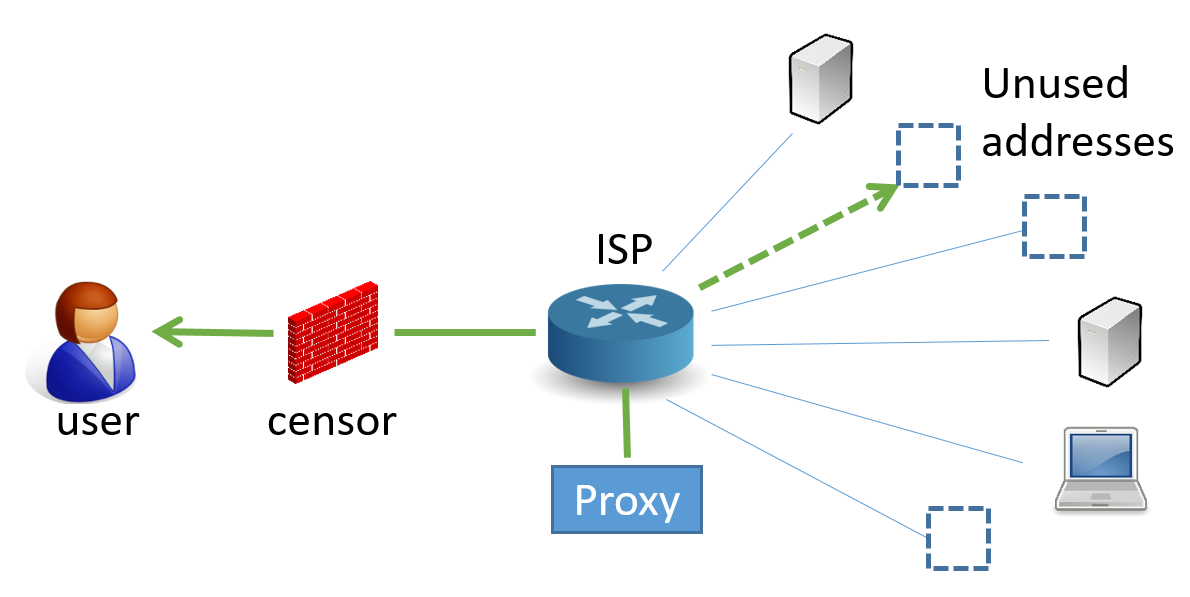
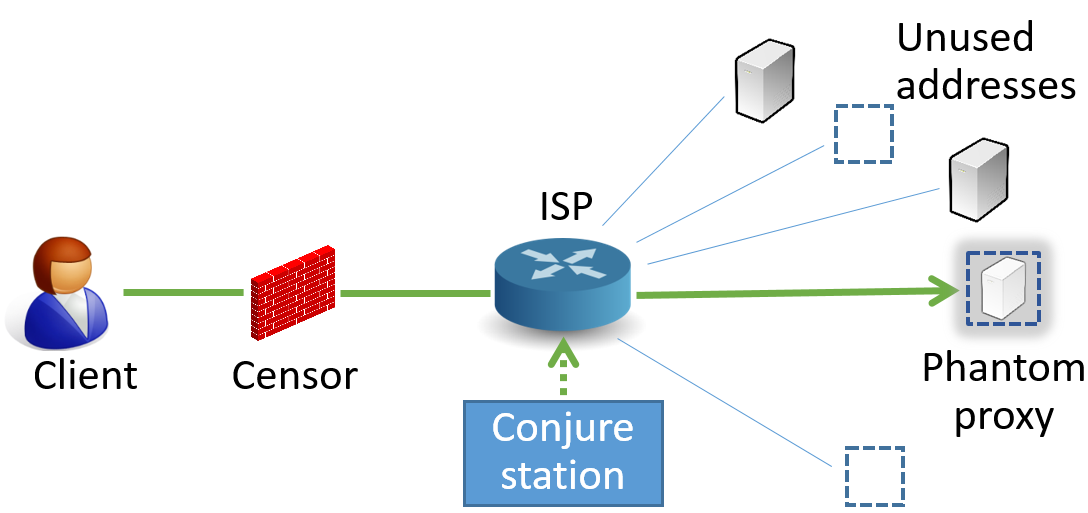
Figure

diff --git a/paper/figures.tex b/paper/figures.tex
@@ -12,13 +12,13 @@
 \newcommand{\FigHighLevel}{
 \begin{figure}[t]
     \centering
-    \vspace{-0.5in}
+    \vspace{-0.525in}
     \includegraphics[width=\linewidth,clip]{figures/high-level.png}
     \caption{\textbf{Overview}---%
-      \scheme is deployed at an ISP using a passive network tap.
-      Clients request service by embedding a steganographic registration message in a TLS connection with any reachable site at the ISP\@. The client selects
-      an unused (``dark'') address in the client's AS, and \scheme
-      injects packets to communicate with the client as if it were a proxy server at that address.
+      An ISP deploys a \scheme station, which sees a passive tap of network traffic.
+      Clients request service by embedding a steganographic message in a TLS connection with any reachable site at the ISP\@. The client then connects
+      to an unused IP address in the client's AS, and the station
+      injects packets to communicate with the client as if there were a proxy server at that address.
     }
     \label{fig:highlevel}
 \end{figure}
@@ -104,7 +104,7 @@
             & \rot{Telex~\cite{telex11}} &
             \rot{Cirripede~\cite{cirripede11}} &
             \rot{Decoy Routing~\cite{curveball11}} &
-            \rot{TapDance~\cite{tapdance14}} & \rot{Rebound~\cite{rebound15}} & \rot{Slitheen~\cite{slitheen16}} & \rot{Waterfall~\cite{waterfall}} & \rot{\textbf{\scheme}} \\
+            \rot{TapDance~\cite{tapdance14}} & \rot{Rebound~\cite{rebound15}} & \rot{Slitheen~\cite{slitheen16}} & \rot{Waterfall~\cite{waterfall17}} & \rot{\textbf{\scheme}} \\
             \hline
                                       %Telex Cirr  DR     TD      RB    Slth   Water  DD
             No inline blocking        & \no & \no  & \no & \yes  & \no  & \no  & \no  & \yes \\

diff --git a/paper/paper.tex b/paper/paper.tex
@@ -44,9 +44,9 @@
 \date{}
 
 % make title bold and 14 pt font (Latex default is non-bold, 16 pt)
-\title{\Large \bf Dark Decoys:
-  Conjuring Proxies from Unused Address Space}
-%\title{\Large \bf Conjure: Summoning Proxies from Unused Address Space}
+%\title{\Large \bf Dark Decoys:
+%  Conjuring Proxies from Unused Address Space}
+\title{\Large \bf Conjure: Summoning Proxies from Unused Address Space}
 
 %for single author (just remove % characters)
 %\author{
@@ -63,8 +63,8 @@
 
 \maketitle
 
-%\newcommand{\scheme}{Conjure\xspace}
-\newcommand{\scheme}{Dark Decoys\xspace}
+%\newcommand{\scheme}{Dark Decoys\xspace}
+\newcommand{\scheme}{Conjure\xspace}
 
 %-------------------------------------------------------------------------------
 \begin{abstract}
